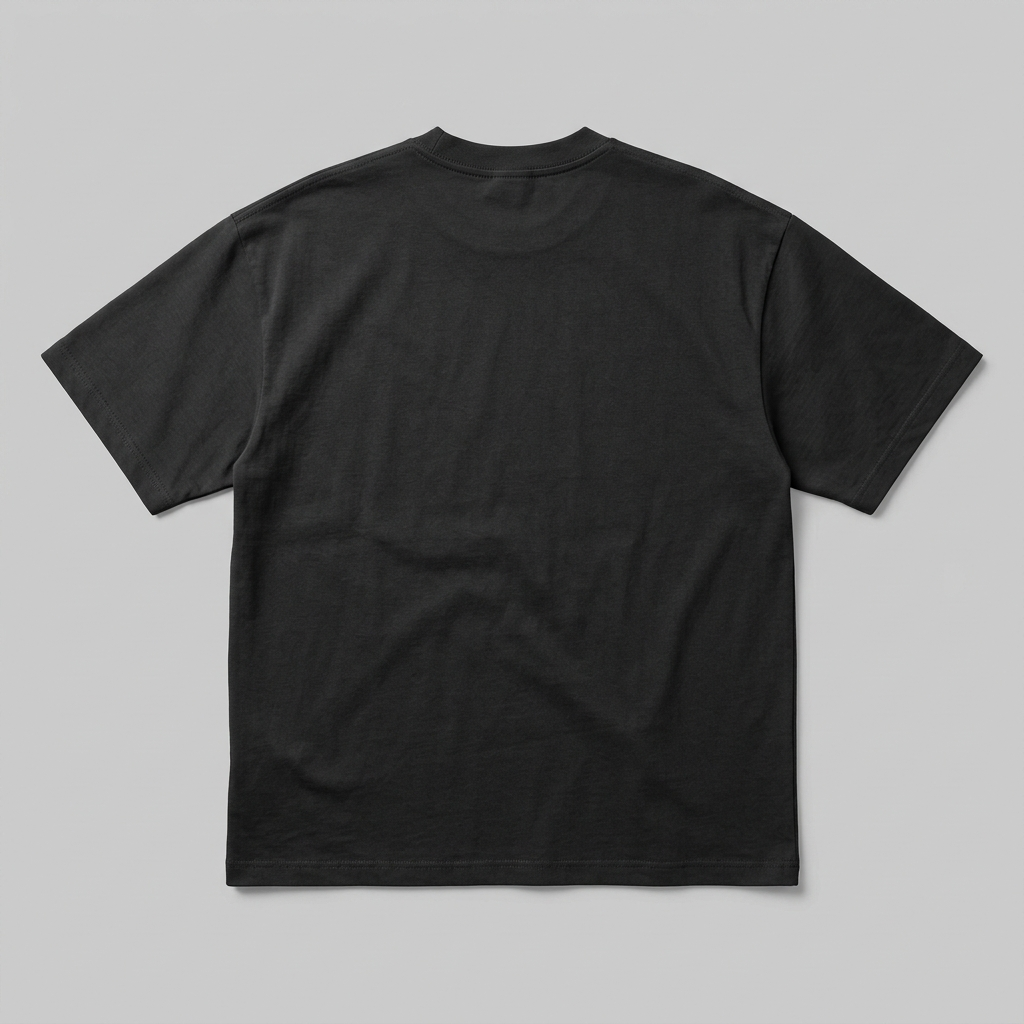
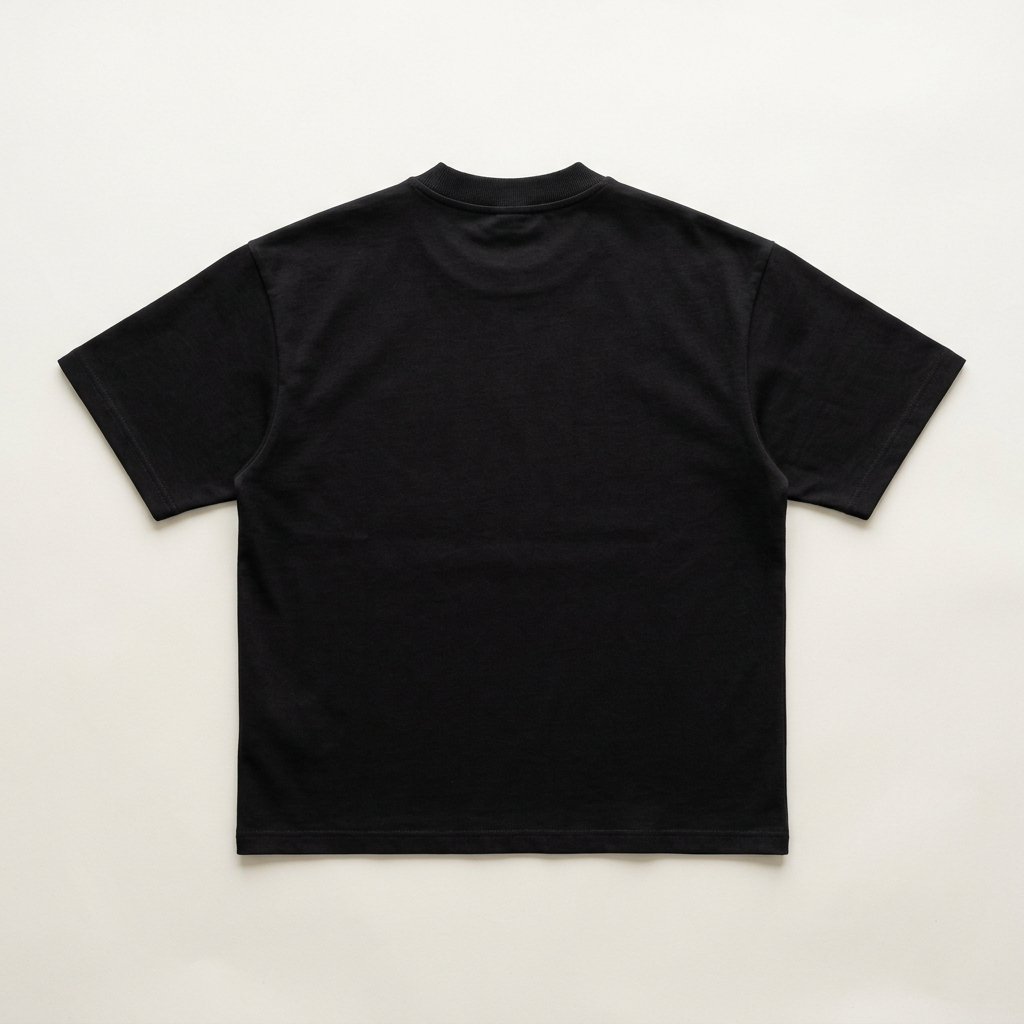
Update Graphic Tees and Vintage Wash to have distinct visual silhouette styles and cuts

diff --git a/src/components/RealisticTShirt.tsx b/src/components/RealisticTShirt.tsx
@@ -64,35 +64,37 @@ export default function RealisticTShirt({
 }: RealisticTShirtProps) {
   const isPrintVisible = placement.viewSide === viewSide;
   
-  // Resolve base image source for the active silhouette and color
-  const mockups = COLOR_MOCKUP_MAP[color.id] || COLOR_MOCKUP_MAP['obsidian-black'];
-  let imageSrc = viewSide === 'front' ? mockups.front : mockups.back;
-
-  // Custom filter style for silhouettes to impart unique texture & style character
-  let garmentFilter = 'contrast(1.03)';
-  if (silhouette === 'vintage-wash') {
-    // Authentic vintage wash mineral/acid fading texture
-    garmentFilter = 'contrast(1.15) brightness(0.95) saturate(0.85)';
-  } else if (silhouette === 'graphic-tees') {
-    // Bold streetwear high-fashion punch
-    garmentFilter = 'contrast(1.12) brightness(1.02)';
+  // 1. Resolve distinct base garment mockup based on silhouette
+  let imageSrc = '';
+  if (silhouette === 'graphic-tees') {
+    imageSrc = viewSide === 'front' 
+      ? '/mockups/tshirt_graphic_front.png' 
+      : '/mockups/tshirt_graphic_back.png';
+  } else if (silhouette === 'vintage-wash') {
+    imageSrc = viewSide === 'front' 
+      ? '/mockups/tshirt_vintage_wash_front.png' 
+      : '/mockups/tshirt_vintage_wash_back.png';
+  } else {
+    // Oversized Tees
+    const mockups = COLOR_MOCKUP_MAP[color.id] || COLOR_MOCKUP_MAP['obsidian-black'];
+    imageSrc = viewSide === 'front' ? mockups.front : mockups.back;
   }
 
-  // Calculate text color for high legibility
+  // 2. Calculate text & artwork contrast
   let effectiveTextColor = color.textColor;
-  if (color.id === 'obsidian-black' || color.id === 'washed-espresso' || color.id === 'mineral-slate' || color.id === 'distressed-clay') {
+  if (silhouette === 'graphic-tees' || silhouette === 'vintage-wash') {
     effectiveTextColor = '#FAF7F2';
   } else {
-    effectiveTextColor = '#1C1917';
+    effectiveTextColor = color.textColor;
   }
 
-  // Exact coordinates and scaling for all 4 placement zones
+  // 3. Exact coordinates and responsive scaling for all 4 placement zones
   const isPocket = placement.id === 'pocket-left';
   const isLowerHem = placement.id === 'lower-hem';
   const isBack = placement.id === 'back-oversized';
 
   let placementStyle: React.CSSProperties = {
-    top: '34%',
+    top: silhouette === 'graphic-tees' ? '36%' : '34%',
     left: '50%',
     transform: 'translateX(-50%)',
     width: '60%',
@@ -101,7 +103,7 @@ export default function RealisticTShirt({
 
   if (isPocket) {
     placementStyle = {
-      top: '28%',
+      top: silhouette === 'graphic-tees' ? '30%' : '28%',
       left: '26%',
       width: '28%',
       maxWidth: '95px',
@@ -126,21 +128,22 @@ export default function RealisticTShirt({
   return (
     <div className="relative w-full max-w-[440px] aspect-square flex items-center justify-center select-none overflow-hidden rounded-md bg-transparent">
       
-      {/* 1. Base Studio T-Shirt Mockup */}
+      {/* 1. Distinct Base Studio T-Shirt Mockup */}
       <img
         key={`${silhouette}-${viewSide}-${color.id}`}
         src={imageSrc}
         alt={`CYTRUS ${silhouette} ${color.name} ${viewSide} view`}
-        style={{ filter: garmentFilter }}
-        className="relative z-10 w-full h-full object-contain transition-all duration-300 pointer-events-none"
+        className="relative z-10 w-full h-full object-contain filter contrast-[1.03] transition-all duration-300 pointer-events-none"
       />
 
-      {/* 1.1 Subtle Vintage Wash Distressed Texture Layer */}
-      {silhouette === 'vintage-wash' && (
+      {/* 1.1 Dynamic Color Tone Overlay for Graphic Tees & Vintage Wash */}
+      {(silhouette === 'graphic-tees' || silhouette === 'vintage-wash') && color.id !== 'obsidian-black' && (
         <div
-          className="absolute inset-0 z-20 pointer-events-none opacity-40 mix-blend-overlay transition-opacity duration-300"
+          className="absolute inset-0 z-20 pointer-events-none transition-all duration-300"
           style={{
-            backgroundImage: `radial-gradient(circle at 50% 50%, rgba(255,255,255,0.4) 0%, rgba(0,0,0,0.3) 100%)`,
+            backgroundColor: color.hex,
+            mixBlendMode: silhouette === 'vintage-wash' ? 'color' : 'color-burn',
+            opacity: silhouette === 'vintage-wash' ? 0.85 : 0.65,
             maskImage: `url(${imageSrc})`,
             WebkitMaskImage: `url(${imageSrc})`,
             maskSize: 'contain',
@@ -182,7 +185,8 @@ export default function RealisticTShirt({
                 src={graphic.previewUrl}
                 alt="Graphic Artwork"
                 className={`w-full h-full object-cover rounded-sm ${
-                  color.id === 'vintage-chalk' || color.id === 'sand-dune'
+                  (silhouette === 'oversized-tees' && color.id !== 'obsidian-black' && color.id !== 'washed-espresso') ||
+                  (silhouette !== 'oversized-tees' && (color.id === 'vintage-chalk' || color.id === 'sand-dune'))
                     ? 'mix-blend-multiply'
                     : 'brightness-110'
                 }`}
